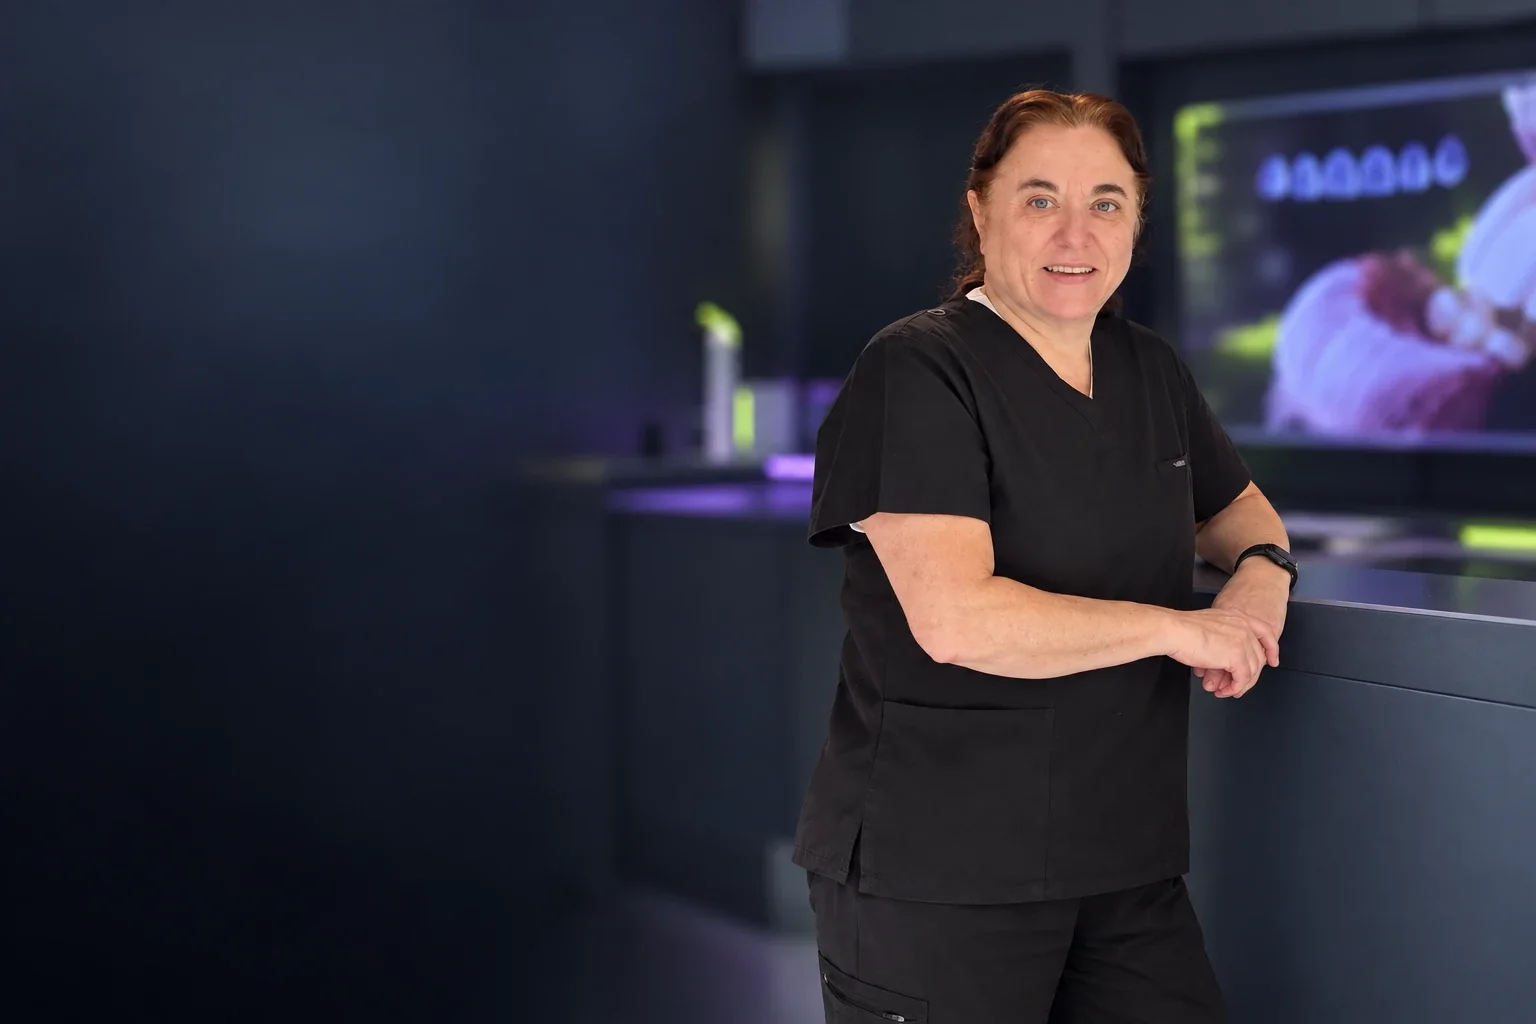
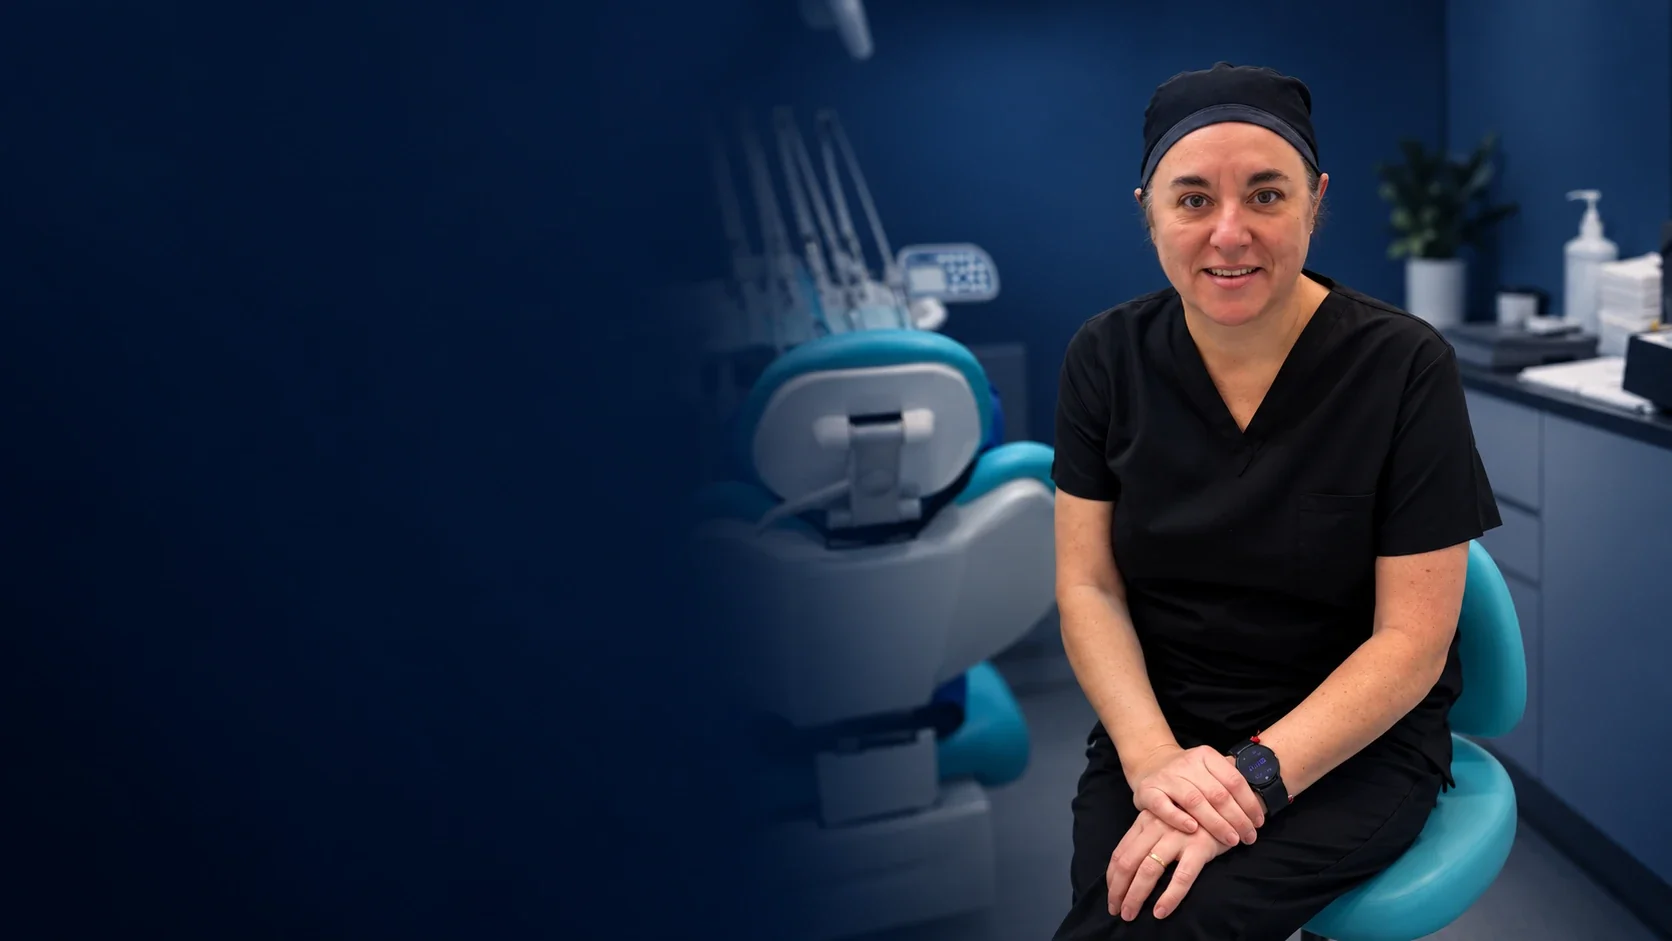
Hero con nueva foto de Laura, título final y gracias sin mención a email
Claude-Session: https://claude.ai/code/session_01WiykmkuShehfDtE8jDbcj4

diff --git a/odontologia-digital/app/globals.css b/odontologia-digital/app/globals.css
@@ -111,6 +111,7 @@ em { font-style: normal; }
 .registro-error { margin: 0; font-size: 14px; color: var(--amarillo); }
 
 .hero-media { position: absolute; inset: 0; z-index: 1; pointer-events: none; }
+.hero-media::after { content: ""; position: absolute; inset: 0; z-index: 1; background: linear-gradient(90deg, var(--noche) 0%, rgba(11, 29, 51, 0.9) 38%, rgba(11, 29, 51, 0.35) 58%, rgba(11, 29, 51, 0) 72%); }
 .hero-bg {
   position: absolute;
   top: 0;
@@ -214,8 +215,9 @@ em { font-style: normal; }
   .topbar-inner { flex-direction: column; justify-content: center; gap: 6px; padding-top: 10px; padding-bottom: 10px; text-align: center; }
   .topbar-fecha { display: none; }
   .brand-logo { width: 44px; height: 44px; }
-  .hero-media { position: relative; inset: auto; height: 380px; }
-  .hero-bg { position: static; width: 100%; height: 100%; object-fit: cover; object-position: center 15%; -webkit-mask-image: linear-gradient(to bottom, transparent 0, #000 18%); mask-image: linear-gradient(to bottom, transparent 0, #000 18%); }
+  .hero-media { position: relative; inset: auto; height: 400px; }
+  .hero-media::after { display: none; }
+  .hero-bg { position: static; width: 100%; height: 100%; object-fit: cover; object-position: center 20%; -webkit-mask-image: linear-gradient(to bottom, transparent 0, #000 18%); mask-image: linear-gradient(to bottom, transparent 0, #000 18%); }
   .hero-card { right: auto; left: 24px; bottom: 16px; padding: 8px 12px; }
   .hero-card strong { font-size: 13px; }
   .hero-copy { max-width: none; padding: 28px 0 8px; }

diff --git a/odontologia-digital/app/page.tsx b/odontologia-digital/app/page.tsx
@@ -90,8 +90,8 @@ export default function Home() {
           <div className="hero-copy">
             <span className="badge">Webinar gratuito · Cupos limitados</span>
             <h1>
-              Descubrí cómo incorporar la <em>odontología digital</em> en tu consultorio para optimizar tiempos,
-              costos y lograr <em>resultados más precisos y predecibles</em>.
+              Descubrí cómo la <em>odontología digital</em> te ayuda a optimizar tiempos, reducir costos y lograr{" "}
+              <em>resultados más previsibles</em>.
             </h1>
             <p className="hero-sub">
               Paso a paso y sin invertir de más.
@@ -108,8 +108,8 @@ export default function Home() {
             <img
               src="/img/laura-hero-bg.webp"
               alt="Dra. Laura Leal en su consultorio"
-              width={1536}
-              height={1024}
+              width={1672}
+              height={941}
               className="hero-bg"
               fetchPriority="high"
             />

diff --git a/odontologia-digital/app/gracias/page.tsx b/odontologia-digital/app/gracias/page.tsx
@@ -20,7 +20,6 @@ export default function Gracias() {
         </h1>
         <p className="lead">
           Te esperamos en <strong>{WEBINAR.nombre}</strong>, la clase en vivo y gratuita con la {WEBINAR.experta}.
-          Te enviamos un email con los datos de la clase.
         </p>
         <ul className="fecha-hora">
           <li>
